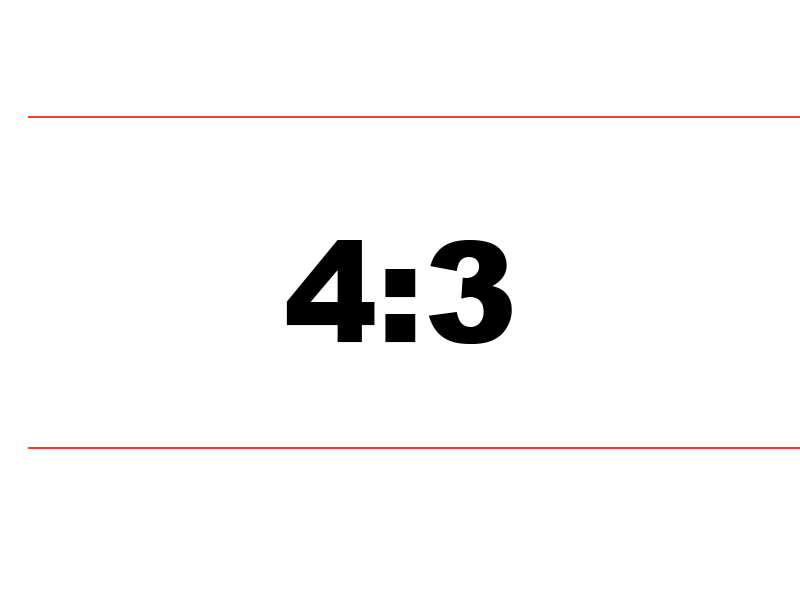
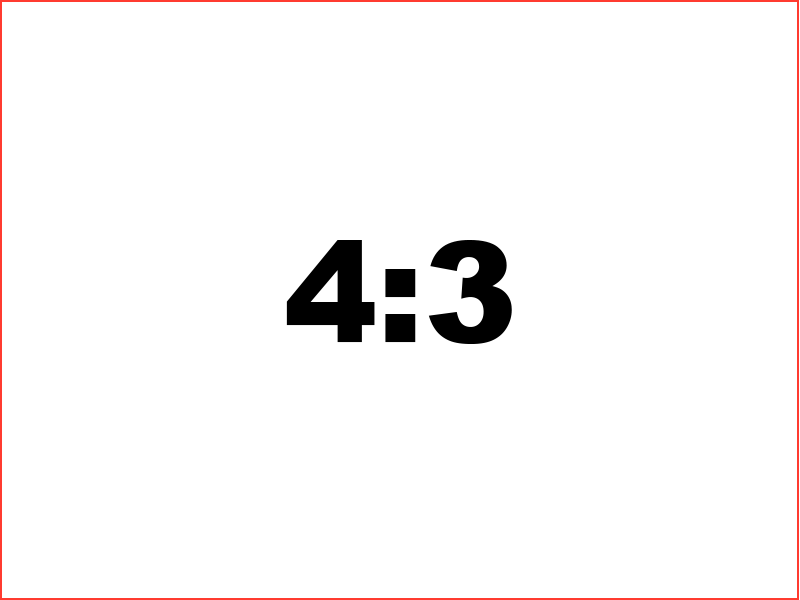
added thumbnails

diff --git a/index.html b/index.html
@@ -125,7 +125,7 @@
                         </div>
 
                         <div class="item">
-                            <img src="img/template2-4-3.png" alt="Chania" width="800" height="600">
+                            <img src="img/template2-4-3-vert.png" alt="Chania" width="800" height="600">
                             <div class="carousel-caption">
                                 <p>Beatiful flowers in Kolymbari, Crete.</p>
                             </div>
@@ -141,6 +141,37 @@
                         <span class="glyphicon glyphicon-chevron-right" aria-hidden="true"></span>
                         <span class="sr-only">Next</span>
                     </a>
+                </div>
+
+                <h1>Thumbnails</h1>
+                <p>A list of thumbnails:</p>
+                <div class="row">
+                    <div class="col-xs-6 col-md-3">
+                        <a href="#" class="thumbnail">
+                            <img src="img/template1-4-3.jpg" alt="...">
+                        </a>
+                    </div>
+                    <div class="col-xs-6 col-md-3">
+                        <a href="#" class="thumbnail">
+                            <img src="img/template1-4-3.jpg" alt="...">
+                        </a>
+                    </div>
+                    <div class="col-xs-6 col-md-3">
+                        <a href="#" class="thumbnail">
+                            <img src="img/template1-4-3.jpg" alt="...">
+                        </a>
+                    </div>
+                    <div class="col-xs-6 col-md-3">
+                        <a href="#" class="thumbnail">
+                            <img src="img/template1-4-3.jpg" alt="...">
+                        </a>
+                    </div>
+                    <div class="col-xs-6 col-md-3">
+                        <a href="#" class="thumbnail">
+                            <img src="img/template1-4-3.jpg" alt="...">
+                        </a>
+                    </div>
+
                 </div>
             </main>
         </div>
